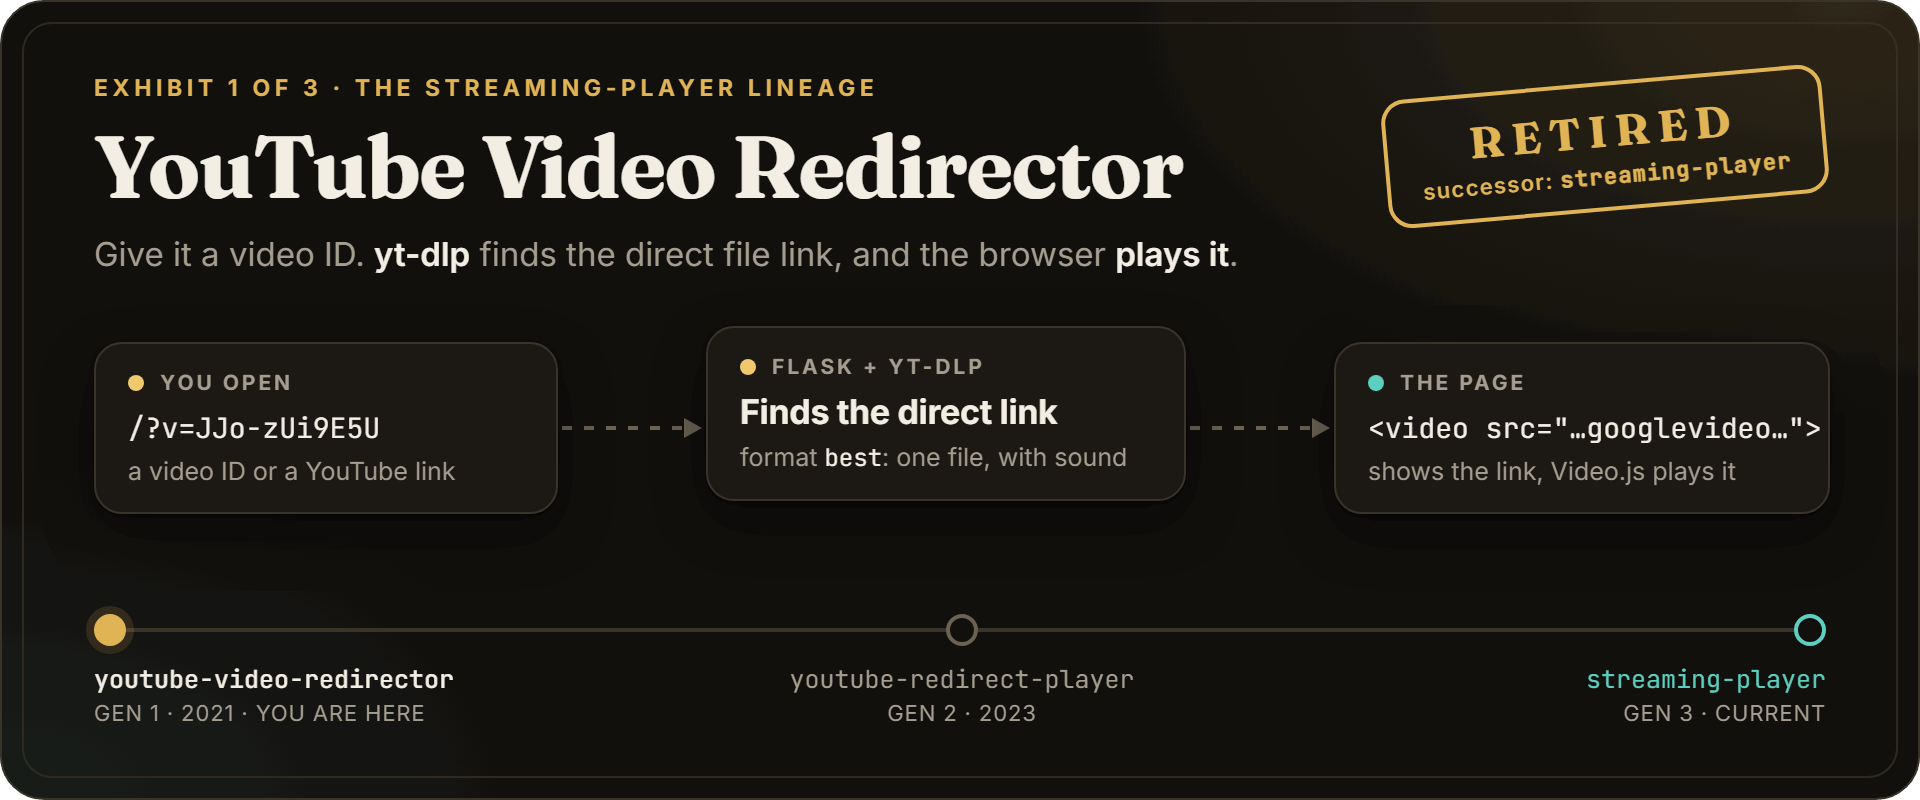
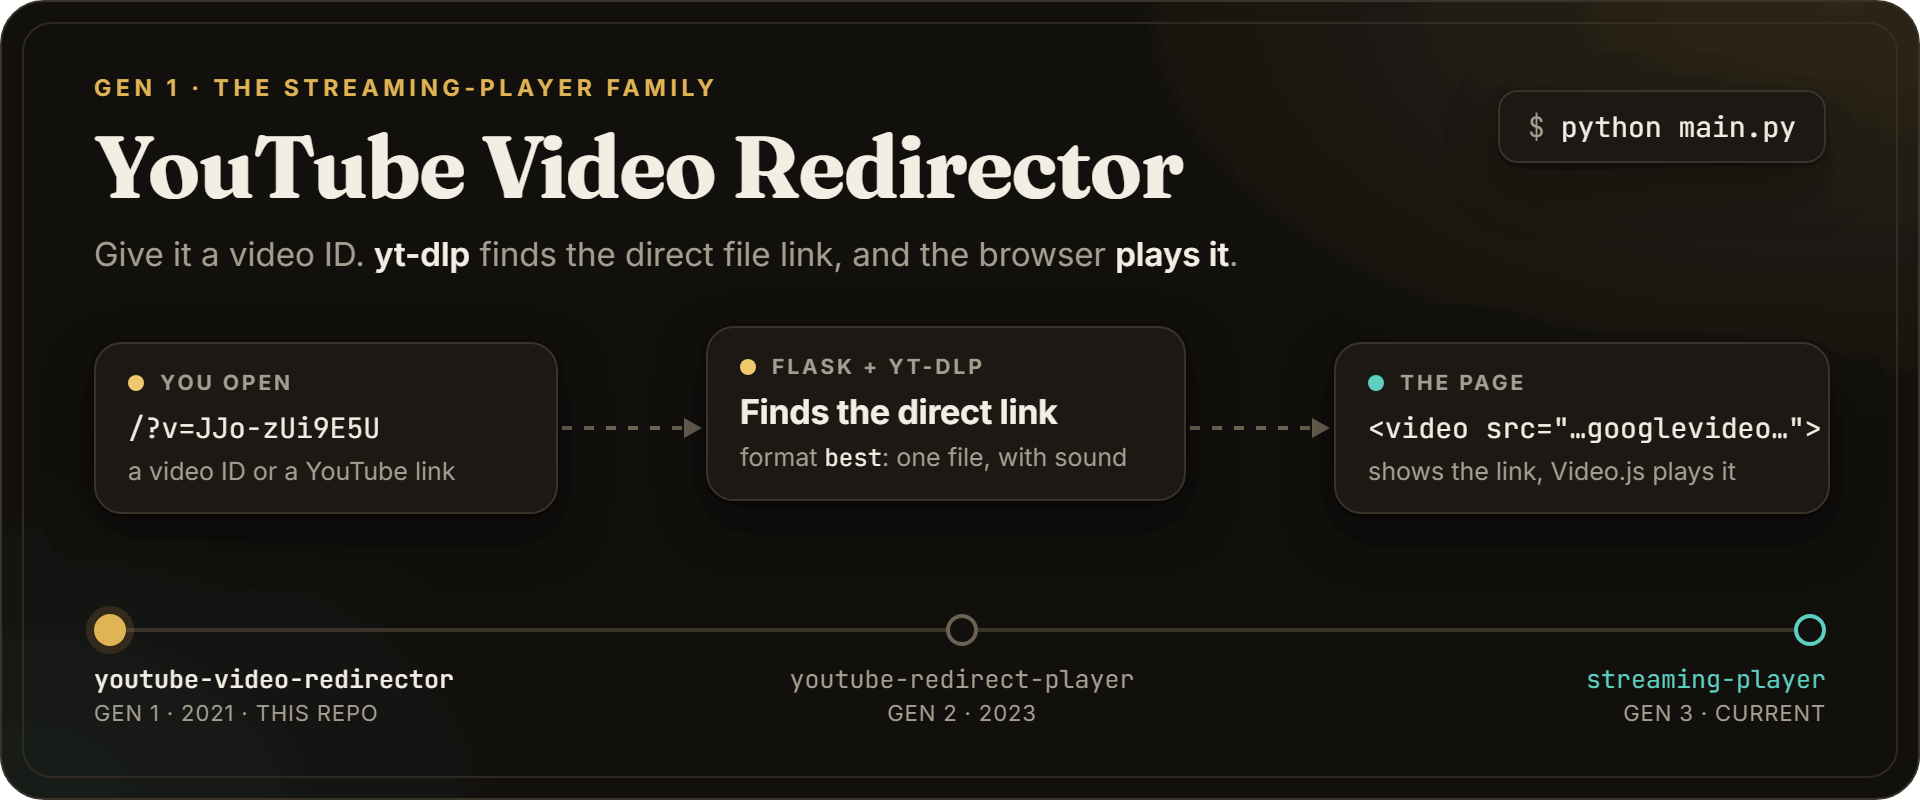
docs: drop the retired stamp from the cover, add a social preview
The cover leaned hard on "retired": a RETIRED stamp in the corner and
"Exhibit 1 of 3" on top. The project doesn't need to shout that. The
stamp's spot now shows the start command, `python main.py`, the
eyebrow says "Gen 1 · the streaming-player family", and the timeline
marks this repo with "this repo" instead of "you are here". Same layout
and palette as Gen 2's cover, so the two still read as a pair.

Also adds docs/images/cover.png, a 1280x640 version for GitHub's social
preview: the light banner at 1180 px wide on its own background, 5%
darker. The recipe is in the comment at the top of hero.html.

diff --git a/docs/images/src/hero.html b/docs/images/src/hero.html
@@ -6,6 +6,10 @@
            --default-background-color=00000000 --virtual-time-budget=5000
            --screenshot=hero-light.png "file:///…/hero.html"
   then shrink with: magick hero-light.png -strip -dither None -colors 256 hero-light.png
+  The 1280x640 social preview (../cover.png) is hero-light.png scaled to 1180 px wide, centred on the
+  banner background made 5% darker:
+    magick -size 1280x640 "xc:<bg>" -fill black -colorize 5% ( hero-light.png -resize 1180x )
+           -gravity center -composite -strip -colors 256 +dither cover.png
 -->
 <html lang="en">
 <head>
@@ -42,11 +46,9 @@
   .tag { margin: 12px 0 0; font-size: 16.5px; color: var(--muted); }
   .tag b { color: var(--ink); font-weight: 600; }
 
-  .stamp { position: absolute; right: 46px; top: 40px; transform: rotate(-5deg); text-align: center;
-           border: 2px solid var(--brass); border-radius: 12px; padding: 9px 16px 8px; color: var(--brass); }
-  .stamp .big { font-family: Fraunces, Georgia, serif; font-size: 22px; font-weight: 700; letter-spacing: .18em; }
-  .stamp .small { font-size: 11px; font-weight: 600; letter-spacing: .06em; margin-top: 2px; }
-  .stamp .small span { font-family: "JetBrains Mono", Consolas, monospace; }
+  .cmd { position: absolute; right: 46px; top: 44px; font-family: "JetBrains Mono", Consolas, monospace; font-size: 14px;
+         padding: 8px 14px; border-radius: 10px; border: 1px solid var(--line); background: var(--card); box-shadow: var(--shadow); }
+  .cmd span { color: var(--muted); margin-right: 8px; user-select: none; }
 
   .node { position: absolute; background: var(--card); border: 1px solid var(--line); border-radius: 14px;
           box-shadow: var(--shadow); padding: 13px 16px; }
@@ -88,15 +90,12 @@
 <script>if (location.hash === '#dark') document.documentElement.className = 'dark';</script>
 <div class="frame">
   <header>
-    <p class="eyebrow">Exhibit 1 of 3 · the streaming-player lineage</p>
+    <p class="eyebrow">Gen 1 · the streaming-player family</p>
     <h1>YouTube Video Redirector</h1>
     <p class="tag">Give it a video ID. <b>yt-dlp</b> finds the direct file link, and the browser <b>plays it</b>.</p>
   </header>
 
-  <div class="stamp">
-    <div class="big">RETIRED</div>
-    <div class="small">successor: <span>streaming-player</span></div>
-  </div>
+  <div class="cmd"><span>$</span>python main.py</div>
 
   <svg class="wires" width="960" height="400">
     <path class="wire" d="M280 213 H344"/>
@@ -125,7 +124,7 @@
 
   <div class="lineage">
     <div class="rail"></div>
-    <div class="stop here" id="g1"><div class="dot"></div><div class="name">youtube-video-redirector</div><div class="when">GEN 1 · 2021 · YOU ARE HERE</div></div>
+    <div class="stop here" id="g1"><div class="dot"></div><div class="name">youtube-video-redirector</div><div class="when">GEN 1 · 2021 · THIS REPO</div></div>
     <div class="stop" id="g2"><div class="dot"></div><div class="name">youtube-redirect-player</div><div class="when">GEN 2 · 2023</div></div>
     <div class="stop now" id="g3"><div class="dot"></div><div class="name">streaming-player</div><div class="when">GEN 3 · CURRENT</div></div>
   </div>
